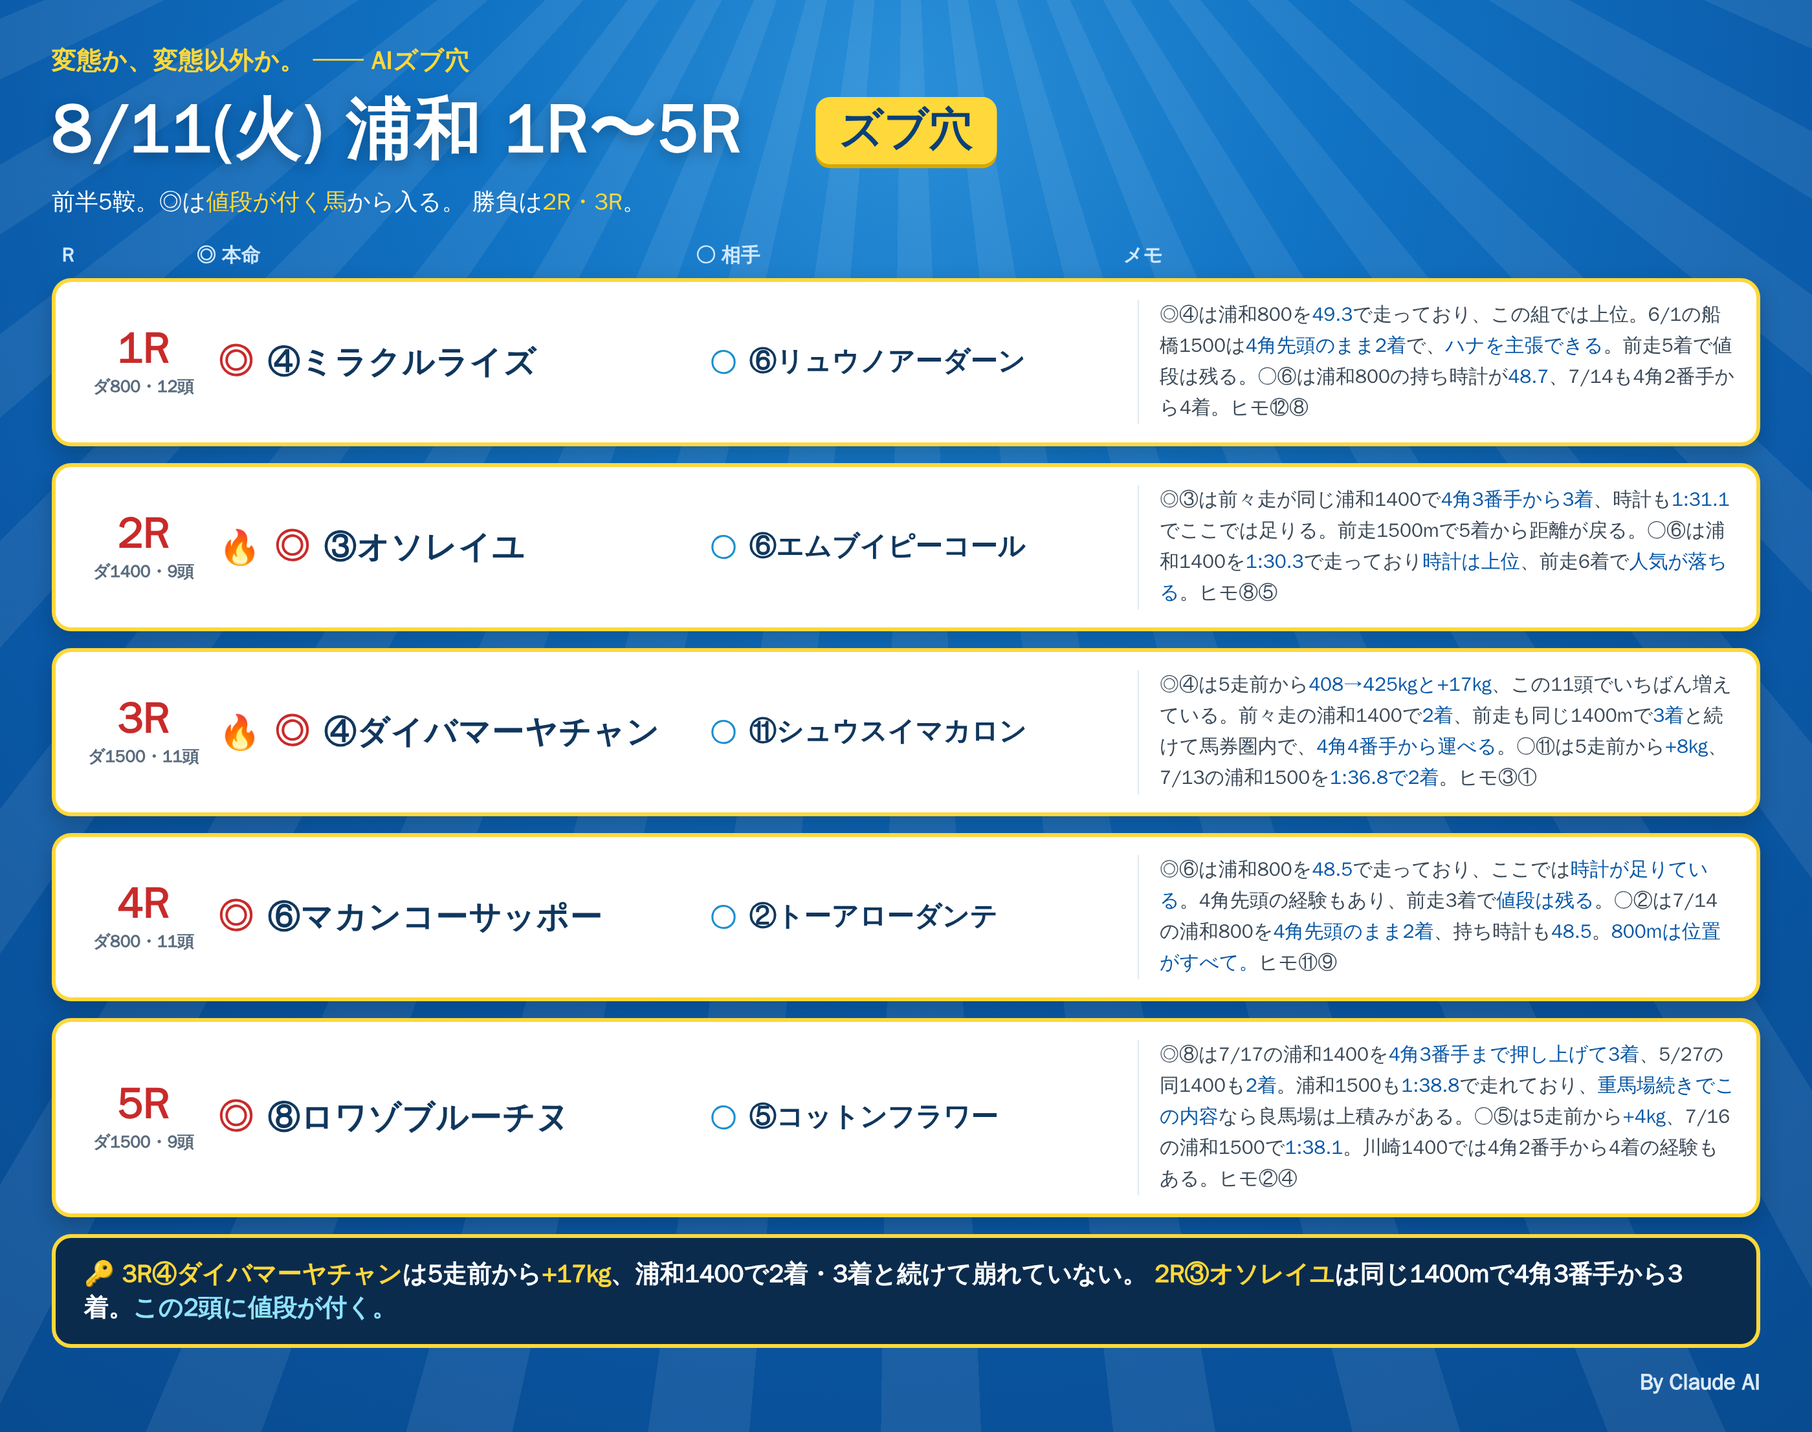
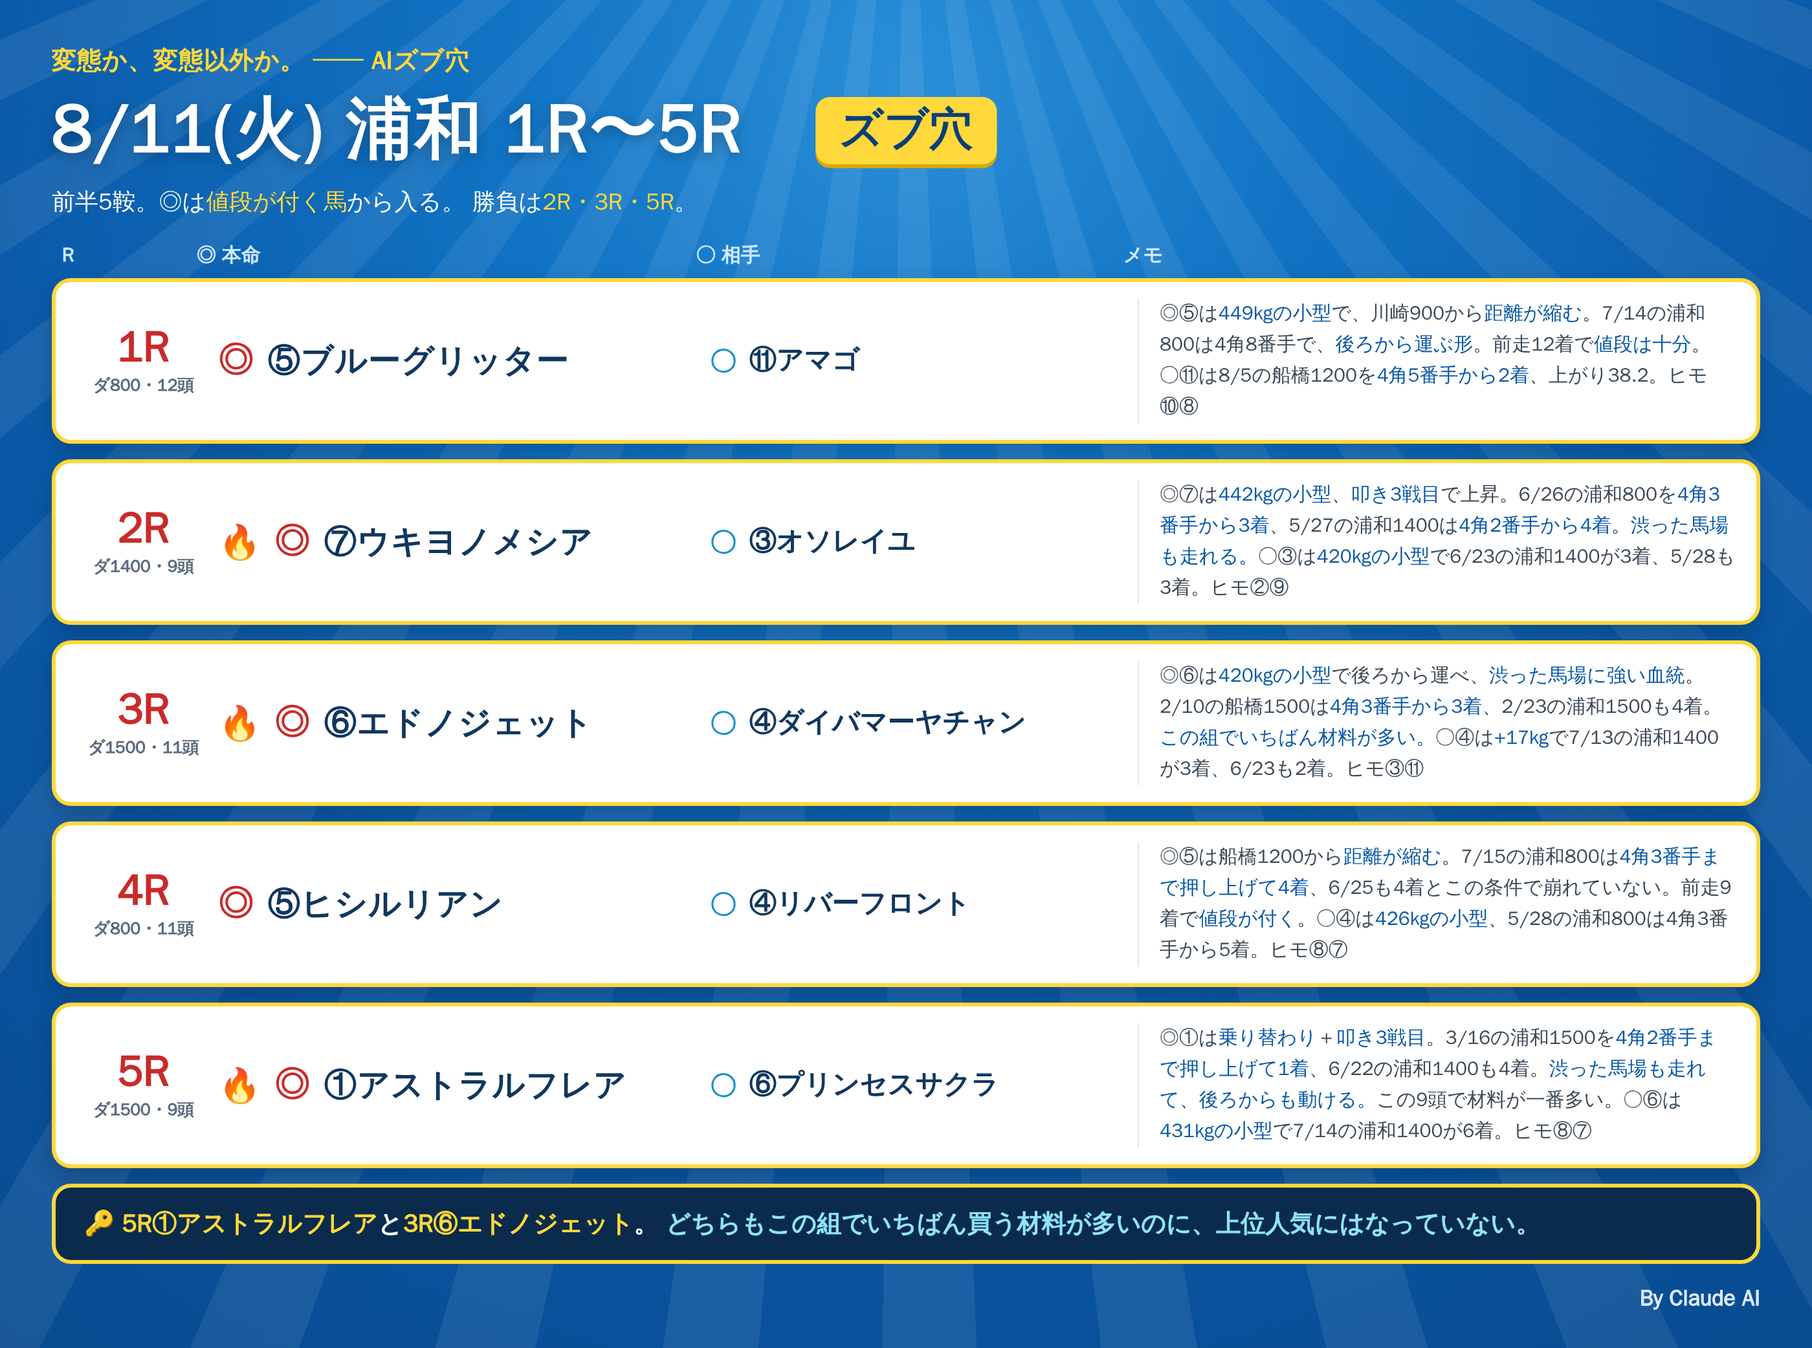
8/11 浦和の前後半カードをズブ穴ファクター基準で組み直し
scripts/zubu_edges.py の穴ファクター(小型・道悪巧者・距離短縮・差し・
強差し・斤量減・叩き3戦目・持続巡航・血統など)の重なりを軸にし、
人気薄から◎を選ぶ方針に統一した。全12鞍の印を入れ替えている。

Claude-Session: https://claude.ai/code/session_01RoHscZkr96FNaxQWvUqgEw

Changed region(s): [[0.0311, 0.0312, 0.9943, 0.9669], [0.435, 0.0624, 0.5593, 0.1248], [0.4039, 0.3743, 0.5593, 0.4055]]

diff --git a/notes/live/2026-08-11/urawa_6_12.html b/notes/live/2026-08-11/urawa_6_12.html
@@ -46,61 +46,61 @@
     <div class="bdg">ズブ穴</div>
   </div>
   <div class="lead">後半7鞍。◎は<span class="y">値段が付く馬</span>から入る。
-  勝負は<span class="y">7R・9R・12R</span>。</div>
+  勝負は<span class="y">8R・9R・12R</span>。</div>
 
   <div class="cols"><div class="cR">R</div><div class="cH">◎ 本命</div><div class="cA">○ 相手</div><div class="cM">メモ</div></div>
 
   <div class="row">
     <div class="rN"><div class="n">6R</div><div class="d">ダ1500・7頭</div></div>
-    <div class="hm"><span class="mk">◎</span><span class="nm">③ユウユウセルベッサ</span></div>
-    <div class="at"><span class="mk2">○</span><span class="nm2">①ライスノユメ</span></div>
-    <div class="memo">◎③は<b>409→423kgと+14kg</b>、2歳らしく増え続けている。6/23の浦和1300を<b>4角3番手から3着</b>。浦和1500も<b>1:39.2</b>で走れている。○①は7/14の浦和1400を<b>4角先頭のまま2着</b>、<b>上がりはメンバーで一番掛かる</b>タイプ。ヒモ⑤⑦</div>
+    <div class="hm"><span class="mk">◎</span><span class="nm">②ユウユウヒレシュ</span></div>
+    <div class="at"><span class="mk2">○</span><span class="nm2">⑦ユウユウコクトバ</span></div>
+    <div class="memo">◎②は<b>415kgの小型</b>で後ろから運べる。7/16の浦和1300を<b>4角5番手から3着</b>、6/23も5着とまとめている。距離が延びて<b>位置を上げやすい。</b>○⑦は<b>394kgの小型</b>、7/16の浦和1300で4角3番手から4着。ヒモ③⑥</div>
   </div>
 
   <div class="row">
     <div class="rN"><div class="n">7R</div><div class="d">ダ1400・9頭</div></div>
-    <div class="hm"><span class="fire">🔥</span><span class="mk">◎</span><span class="nm">⑧サニーサフラン</span></div>
-    <div class="at"><span class="mk2">○</span><span class="nm2">②オオタニズスマイル</span></div>
-    <div class="memo">◎⑧は<b>513→518kgと+5kg</b>で、<b>上がりはこの9頭で一番遅い</b>。7/17の浦和1400は<b>4角1〜3番手のまま8着</b>で、前を取れる形は変わらない。上がりの掛かる流れになれば残る。○②は7/17の浦和1400を<b>1:29.2</b>、ここでは時計が足りる。ヒモ④⑤</div>
+    <div class="hm"><span class="mk">◎</span><span class="nm">③アパショナード</span></div>
+    <div class="at"><span class="mk2">○</span><span class="nm2">⑤エドノビートイン</span></div>
+    <div class="memo">◎③は<b>436kgの小型</b>、1500mから<b>距離が縮む</b>。4/21の浦和1400では<b>上がり38.1</b>を使えており、脚は残っている。休み明けを叩いた上積み。<b>値段は十分。</b>○⑤は7/13の浦和1500を<b>4角3番手まで押し上げて2着</b>、6/25も3着。ヒモ⑥①</div>
   </div>
 
   <div class="row">
     <div class="rN"><div class="n">8R</div><div class="d">ダ800・12頭</div></div>
-    <div class="hm"><span class="mk">◎</span><span class="nm">①ラタランテラ</span></div>
-    <div class="at"><span class="mk2">○</span><span class="nm2">⑪シェナウエーブ</span></div>
-    <div class="memo">◎①は<b>440→447kgと+7kg</b>、浦和800を<b>47.8</b>で走っている。<b>上がりは12頭で11番目に遅い</b>タイプで、最内枠。○⑪は<b>+15kg</b>で<b>上がりはメンバー最遅</b>、7/16の浦和800を<b>4角2番手から2着</b>、持ち時計47.2。ヒモ⑨③</div>
+    <div class="hm"><span class="fire">🔥</span><span class="mk">◎</span><span class="nm">④モーニングタンポポ</span></div>
+    <div class="at"><span class="mk2">○</span><span class="nm2">⑦ケイアイマゴラ</span></div>
+    <div class="memo">◎④は<b>421kgの小型</b>で、船橋1000から<b>距離が縮む</b>。<b>斤量も軽くなる。</b>浦和800は4角7〜9番手で、<b>後ろから運ぶ形</b>。この12頭で<b>買う材料がいちばん多い</b>のに人気が無い。○⑦は6/23の浦和1400を<b>4角3番手から4着</b>。ヒモ①⑨</div>
   </div>
 
   <div class="row">
     <div class="rN"><div class="n">9R</div><div class="d">ダ1500・10頭</div></div>
-    <div class="hm"><span class="fire">🔥</span><span class="mk">◎</span><span class="nm">⑨イサチルカゼニタツ</span></div>
-    <div class="at"><span class="mk2">○</span><span class="nm2">④デザートウインド</span></div>
-    <div class="memo">◎⑨は<b>490→500kgと+10kg</b>。4/22の浦和1500を<b>4角先頭のまま1:36.6の4着</b>で、この距離の時計を持っている。<b>上がりは10頭で8番目</b>と掛かるタイプ。○④は<b>上がりがメンバー最遅</b>、7/13の浦和1500を<b>1:36.3</b>で4角4番手まで押し上げている。ヒモ②⑩</div>
+    <div class="hm"><span class="fire">🔥</span><span class="mk">◎</span><span class="nm">③ハーモニーロワ</span></div>
+    <div class="at"><span class="mk2">○</span><span class="nm2">②ドリームファイター</span></div>
+    <div class="memo">◎③は<b>叩き3戦目</b>で<b>斤量減</b>。4/24の浦和1400を<b>4角2番手まで押し上げて1着</b>、7/14の浦和1400も<b>上がり37.7で4着</b>と終いは確か。<b>渋った馬場も向く血統。</b>○②は7/16の浦和1400を<b>4角先頭のまま1着</b>。ヒモ⑦⑤</div>
   </div>
 
   <div class="row">
     <div class="rN"><div class="n">10R</div><div class="d">ダ1500・8頭</div></div>
     <div class="hm"><span class="mk">◎</span><span class="nm">⑦ラブアンドハピネス</span></div>
-    <div class="at"><span class="mk2">○</span><span class="nm2">①チョメチョメ</span></div>
-    <div class="memo">◎⑦は<b>441→446kgと+5kg</b>、7/14の浦和1500を<b>1:35.5</b>で走っており時計は足りる。<b>上がりは8頭で7番目</b>に遅い。3/4の川崎2000では<b>4角3番手から2着</b>。○①は浦和1500を<b>1:35.1</b>、6/23は4角3番手から3着。ヒモ③④</div>
+    <div class="at"><span class="mk2">○</span><span class="nm2">⑤エリンアキレウス</span></div>
+    <div class="memo">◎⑦は<b>446kgの小型</b>で<b>叩き3戦目</b>。7/14の浦和1500を<b>1:35.5</b>、上がり38.1で走れており時計は足りる。<b>後ろから運べる。</b>○⑤は7/31の川崎1500を<b>4角2番手まで押し上げて1着</b>、終いも確か。ヒモ②⑧</div>
   </div>
 
   <div class="row">
     <div class="rN"><div class="n">11R</div><div class="d">ダ1400・11頭</div></div>
-    <div class="hm"><span class="mk">◎</span><span class="nm">①ラモンパンサー</span></div>
-    <div class="at"><span class="mk2">○</span><span class="nm2">⑪ラストハニー</span></div>
-    <div class="memo">◎①は6/23の浦和1400を<b>4角先頭のまま3着</b>、6/28の船橋1200も2着。<b>上がりは11頭で10番目</b>に遅く、掛かる流れなら残せる。最内枠。○⑪は5/8の船橋1000で<b>1着</b>、6/2の船橋1200も4角5番手から5着。ヒモ⑨③</div>
+    <div class="hm"><span class="mk">◎</span><span class="nm">⑦チュラブロッサム</span></div>
+    <div class="at"><span class="mk2">○</span><span class="nm2">①ラモンパンサー</span></div>
+    <div class="memo">◎⑦は<b>433kgの小型</b>で1500mから<b>距離が縮む</b>。7/17の浦和1500を<b>4角2番手から2着</b>、6/23の浦和1400も<b>4角先頭で2着</b>。<b>渋った馬場も走れる。</b>○①は6/23の浦和1400を<b>4角先頭のまま3着</b>、最内枠。ヒモ⑧⑨</div>
   </div>
 
   <div class="row">
     <div class="rN"><div class="n">12R</div><div class="d">ダ2000・12頭</div></div>
-    <div class="hm"><span class="fire">🔥</span><span class="mk">◎</span><span class="nm">⑨ユウユウプレゼンス</span></div>
-    <div class="at"><span class="mk2">○</span><span class="nm2">②レベリオン</span></div>
-    <div class="memo">◎⑨は浦和2000を<b>2:12.8</b>、5/27は<b>4角2番手から3着</b>、6/24も4角先頭で4着。<b>上がりは12頭で11番目</b>に遅く、体も<b>+1kg</b>で維持。<b>毎回前を取れているのに値段が付く。</b>○②は<b>+4kg</b>、6/24の浦和2000を<b>2:12.5で1着</b>。ヒモ④③</div>
+    <div class="hm"><span class="fire">🔥</span><span class="mk">◎</span><span class="nm">①ルージュメアート</span></div>
+    <div class="at"><span class="mk2">○</span><span class="nm2">⑫シヴァシン</span></div>
+    <div class="memo">◎①は<b>後ろから一気に来られる</b>タイプで、6/24の浦和2000は<b>4角9番手から上がり38.0の3着</b>。7/28の川崎2000も4着。<b>終いの脚はこの12頭で最上位。</b>最内枠。○⑫は<b>427kgの小型</b>、7/15の浦和2000を<b>4角先頭に立って1着</b>。ヒモ②⑩</div>
   </div>
 
-  <div class="foot">🔑 <span class="y">12R⑨ユウユウプレゼンス</span>と<span class="y">7R⑧サニーサフラン</span>、<span class="y">9R⑨イサチルカゼニタツ</span>。
-  <span class="c">3頭とも体が増えていて、上がりは掛かるほうで、その距離の時計は持っている。</span></div>
+  <div class="foot">🔑 <span class="y">8R④モーニングタンポポ</span>と<span class="y">9R③ハーモニーロワ</span>、<span class="y">12R①ルージュメアート</span>。
+  <span class="c">3頭とも買う材料が揃っているのに、人気にはなっていない。</span></div>
   <div class="sig">By Claude AI</div>
 </div></div>
 </body></html>

diff --git a/notes/live/2026-08-11/urawa_1_5.html b/notes/live/2026-08-11/urawa_1_5.html
@@ -20,7 +20,7 @@
   .cR{flex:0 0 104px;} .cH{flex:0 0 386px;} .cA{flex:0 0 330px;} .cM{flex:1;}
 
   .row { display:flex; align-items:stretch; background:#fff; border:3px solid #ffd83b; border-radius:15px;
-         margin-bottom:13px; padding:14px 16px; box-shadow:0 6px 16px rgba(0,0,0,.2); }
+         margin-bottom:12px; padding:13px 16px; box-shadow:0 6px 16px rgba(0,0,0,.2); }
   .rN { flex:0 0 104px; display:flex; flex-direction:column; justify-content:center; align-items:center; }
   .rN .n { color:#c92a2a; font-size:33px; font-weight:900; line-height:1; }
   .rN .d { color:#5a6b7d; font-size:13px; font-weight:800; margin-top:4px; }
@@ -46,47 +46,47 @@
     <div class="bdg">ズブ穴</div>
   </div>
   <div class="lead">前半5鞍。◎は<span class="y">値段が付く馬</span>から入る。
-  勝負は<span class="y">2R・3R</span>。</div>
+  勝負は<span class="y">2R・3R・5R</span>。</div>
 
   <div class="cols"><div class="cR">R</div><div class="cH">◎ 本命</div><div class="cA">○ 相手</div><div class="cM">メモ</div></div>
 
   <div class="row">
     <div class="rN"><div class="n">1R</div><div class="d">ダ800・12頭</div></div>
-    <div class="hm"><span class="mk">◎</span><span class="nm">④ミラクルライズ</span></div>
-    <div class="at"><span class="mk2">○</span><span class="nm2">⑥リュウノアーダーン</span></div>
-    <div class="memo">◎④は浦和800を<b>49.3</b>で走っており、この組では上位。6/1の船橋1500は<b>4角先頭のまま2着</b>で、<b>ハナを主張できる</b>。前走5着で値段は残る。○⑥は浦和800の持ち時計が<b>48.7</b>、7/14も4角2番手から4着。ヒモ⑫⑧</div>
+    <div class="hm"><span class="mk">◎</span><span class="nm">⑤ブルーグリッター</span></div>
+    <div class="at"><span class="mk2">○</span><span class="nm2">⑪アマゴ</span></div>
+    <div class="memo">◎⑤は<b>449kgの小型</b>で、川崎900から<b>距離が縮む</b>。7/14の浦和800は4角8番手で、<b>後ろから運ぶ形</b>。前走12着で<b>値段は十分</b>。○⑪は8/5の船橋1200を<b>4角5番手から2着</b>、上がり38.2。ヒモ⑩⑧</div>
   </div>
 
   <div class="row">
     <div class="rN"><div class="n">2R</div><div class="d">ダ1400・9頭</div></div>
-    <div class="hm"><span class="fire">🔥</span><span class="mk">◎</span><span class="nm">③オソレイユ</span></div>
-    <div class="at"><span class="mk2">○</span><span class="nm2">⑥エムブイピーコール</span></div>
-    <div class="memo">◎③は前々走が同じ浦和1400で<b>4角3番手から3着</b>、時計も<b>1:31.1</b>でここでは足りる。前走1500mで5着から距離が戻る。○⑥は浦和1400を<b>1:30.3</b>で走っており<b>時計は上位</b>、前走6着で<b>人気が落ちる</b>。ヒモ⑧⑤</div>
+    <div class="hm"><span class="fire">🔥</span><span class="mk">◎</span><span class="nm">⑦ウキヨノメシア</span></div>
+    <div class="at"><span class="mk2">○</span><span class="nm2">③オソレイユ</span></div>
+    <div class="memo">◎⑦は<b>442kgの小型</b>、<b>叩き3戦目</b>で上昇。6/26の浦和800を<b>4角3番手から3着</b>、5/27の浦和1400は<b>4角2番手から4着</b>。<b>渋った馬場も走れる。</b>○③は<b>420kgの小型</b>で6/23の浦和1400が3着、5/28も3着。ヒモ②⑨</div>
   </div>
 
   <div class="row">
     <div class="rN"><div class="n">3R</div><div class="d">ダ1500・11頭</div></div>
-    <div class="hm"><span class="fire">🔥</span><span class="mk">◎</span><span class="nm">④ダイバマーヤチャン</span></div>
-    <div class="at"><span class="mk2">○</span><span class="nm2">⑪シュウスイマカロン</span></div>
-    <div class="memo">◎④は5走前から<b>408→425kgと+17kg</b>、この11頭でいちばん増えている。前々走の浦和1400で<b>2着</b>、前走も同じ1400mで<b>3着</b>と続けて馬券圏内で、<b>4角4番手から運べる</b>。○⑪は5走前から<b>+8kg</b>、7/13の浦和1500を<b>1:36.8で2着</b>。ヒモ③①</div>
+    <div class="hm"><span class="fire">🔥</span><span class="mk">◎</span><span class="nm">⑥エドノジェット</span></div>
+    <div class="at"><span class="mk2">○</span><span class="nm2">④ダイバマーヤチャン</span></div>
+    <div class="memo">◎⑥は<b>420kgの小型</b>で後ろから運べ、<b>渋った馬場に強い血統</b>。2/10の船橋1500は<b>4角3番手から3着</b>、2/23の浦和1500も4着。<b>この組でいちばん材料が多い。</b>○④は<b>+17kg</b>で7/13の浦和1400が3着、6/23も2着。ヒモ③⑪</div>
   </div>
 
   <div class="row">
     <div class="rN"><div class="n">4R</div><div class="d">ダ800・11頭</div></div>
-    <div class="hm"><span class="mk">◎</span><span class="nm">⑥マカンコーサッポー</span></div>
-    <div class="at"><span class="mk2">○</span><span class="nm2">②トーアローダンテ</span></div>
-    <div class="memo">◎⑥は浦和800を<b>48.5</b>で走っており、ここでは<b>時計が足りている</b>。4角先頭の経験もあり、前走3着で<b>値段は残る</b>。○②は7/14の浦和800を<b>4角先頭のまま2着</b>、持ち時計も<b>48.5</b>。<b>800mは位置がすべて。</b>ヒモ⑪⑨</div>
+    <div class="hm"><span class="mk">◎</span><span class="nm">⑤ヒシルリアン</span></div>
+    <div class="at"><span class="mk2">○</span><span class="nm2">④リバーフロント</span></div>
+    <div class="memo">◎⑤は船橋1200から<b>距離が縮む</b>。7/15の浦和800は<b>4角3番手まで押し上げて4着</b>、6/25も4着とこの条件で崩れていない。前走9着で<b>値段が付く</b>。○④は<b>426kgの小型</b>、5/28の浦和800は4角3番手から5着。ヒモ⑧⑦</div>
   </div>
 
   <div class="row">
     <div class="rN"><div class="n">5R</div><div class="d">ダ1500・9頭</div></div>
-    <div class="hm"><span class="mk">◎</span><span class="nm">⑧ロワゾブルーチヌ</span></div>
-    <div class="at"><span class="mk2">○</span><span class="nm2">⑤コットンフラワー</span></div>
-    <div class="memo">◎⑧は7/17の浦和1400を<b>4角3番手まで押し上げて3着</b>、5/27の同1400も<b>2着</b>。浦和1500も<b>1:38.8</b>で走れており、<b>重馬場続きでこの内容</b>なら良馬場は上積みがある。○⑤は5走前から<b>+4kg</b>、7/16の浦和1500で<b>1:38.1</b>。川崎1400では4角2番手から4着の経験もある。ヒモ②④</div>
+    <div class="hm"><span class="fire">🔥</span><span class="mk">◎</span><span class="nm">①アストラルフレア</span></div>
+    <div class="at"><span class="mk2">○</span><span class="nm2">⑥プリンセスサクラ</span></div>
+    <div class="memo">◎①は<b>乗り替わり</b>＋<b>叩き3戦目</b>。3/16の浦和1500を<b>4角2番手まで押し上げて1着</b>、6/22の浦和1400も4着。<b>渋った馬場も走れて、後ろからも動ける。</b>この9頭で材料が一番多い。○⑥は<b>431kgの小型</b>で7/14の浦和1400が6着。ヒモ⑧⑦</div>
   </div>
 
-  <div class="foot">🔑 <span class="y">3R④ダイバマーヤチャン</span>は5走前から<span class="y">+17kg</span>、浦和1400で2着・3着と続けて崩れていない。
-  <span class="y">2R③オソレイユ</span>は同じ1400mで4角3番手から3着。<span class="c">この2頭に値段が付く。</span></div>
+  <div class="foot">🔑 <span class="y">5R①アストラルフレア</span>と<span class="y">3R⑥エドノジェット</span>。
+  <span class="c">どちらもこの組でいちばん買う材料が多いのに、上位人気にはなっていない。</span></div>
   <div class="sig">By Claude AI</div>
 </div></div>
 </body></html>
